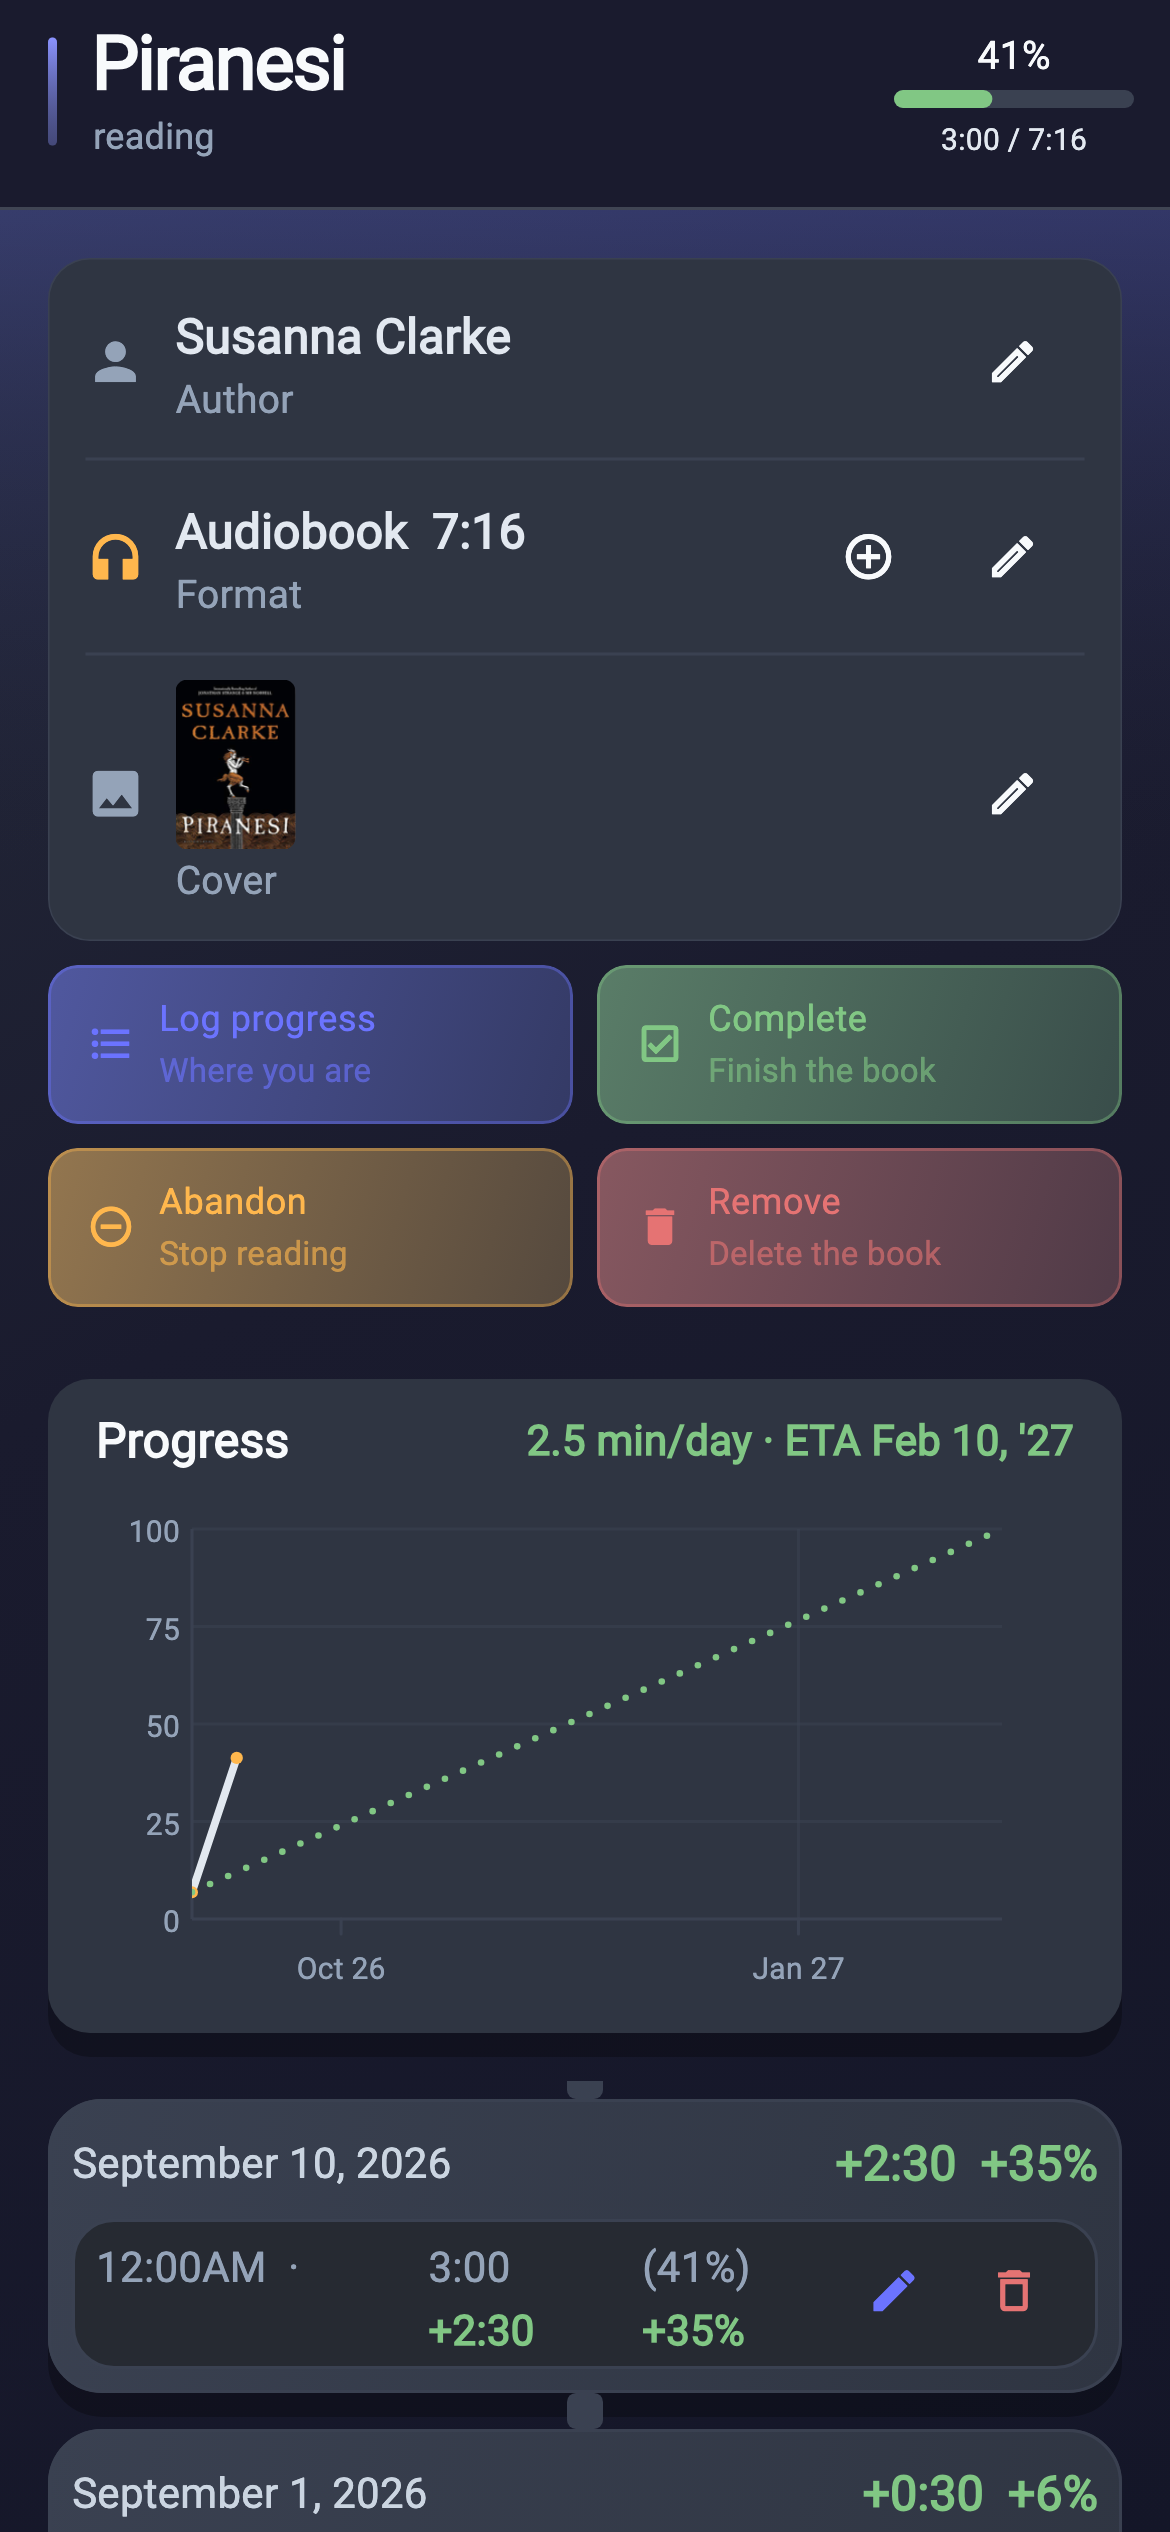
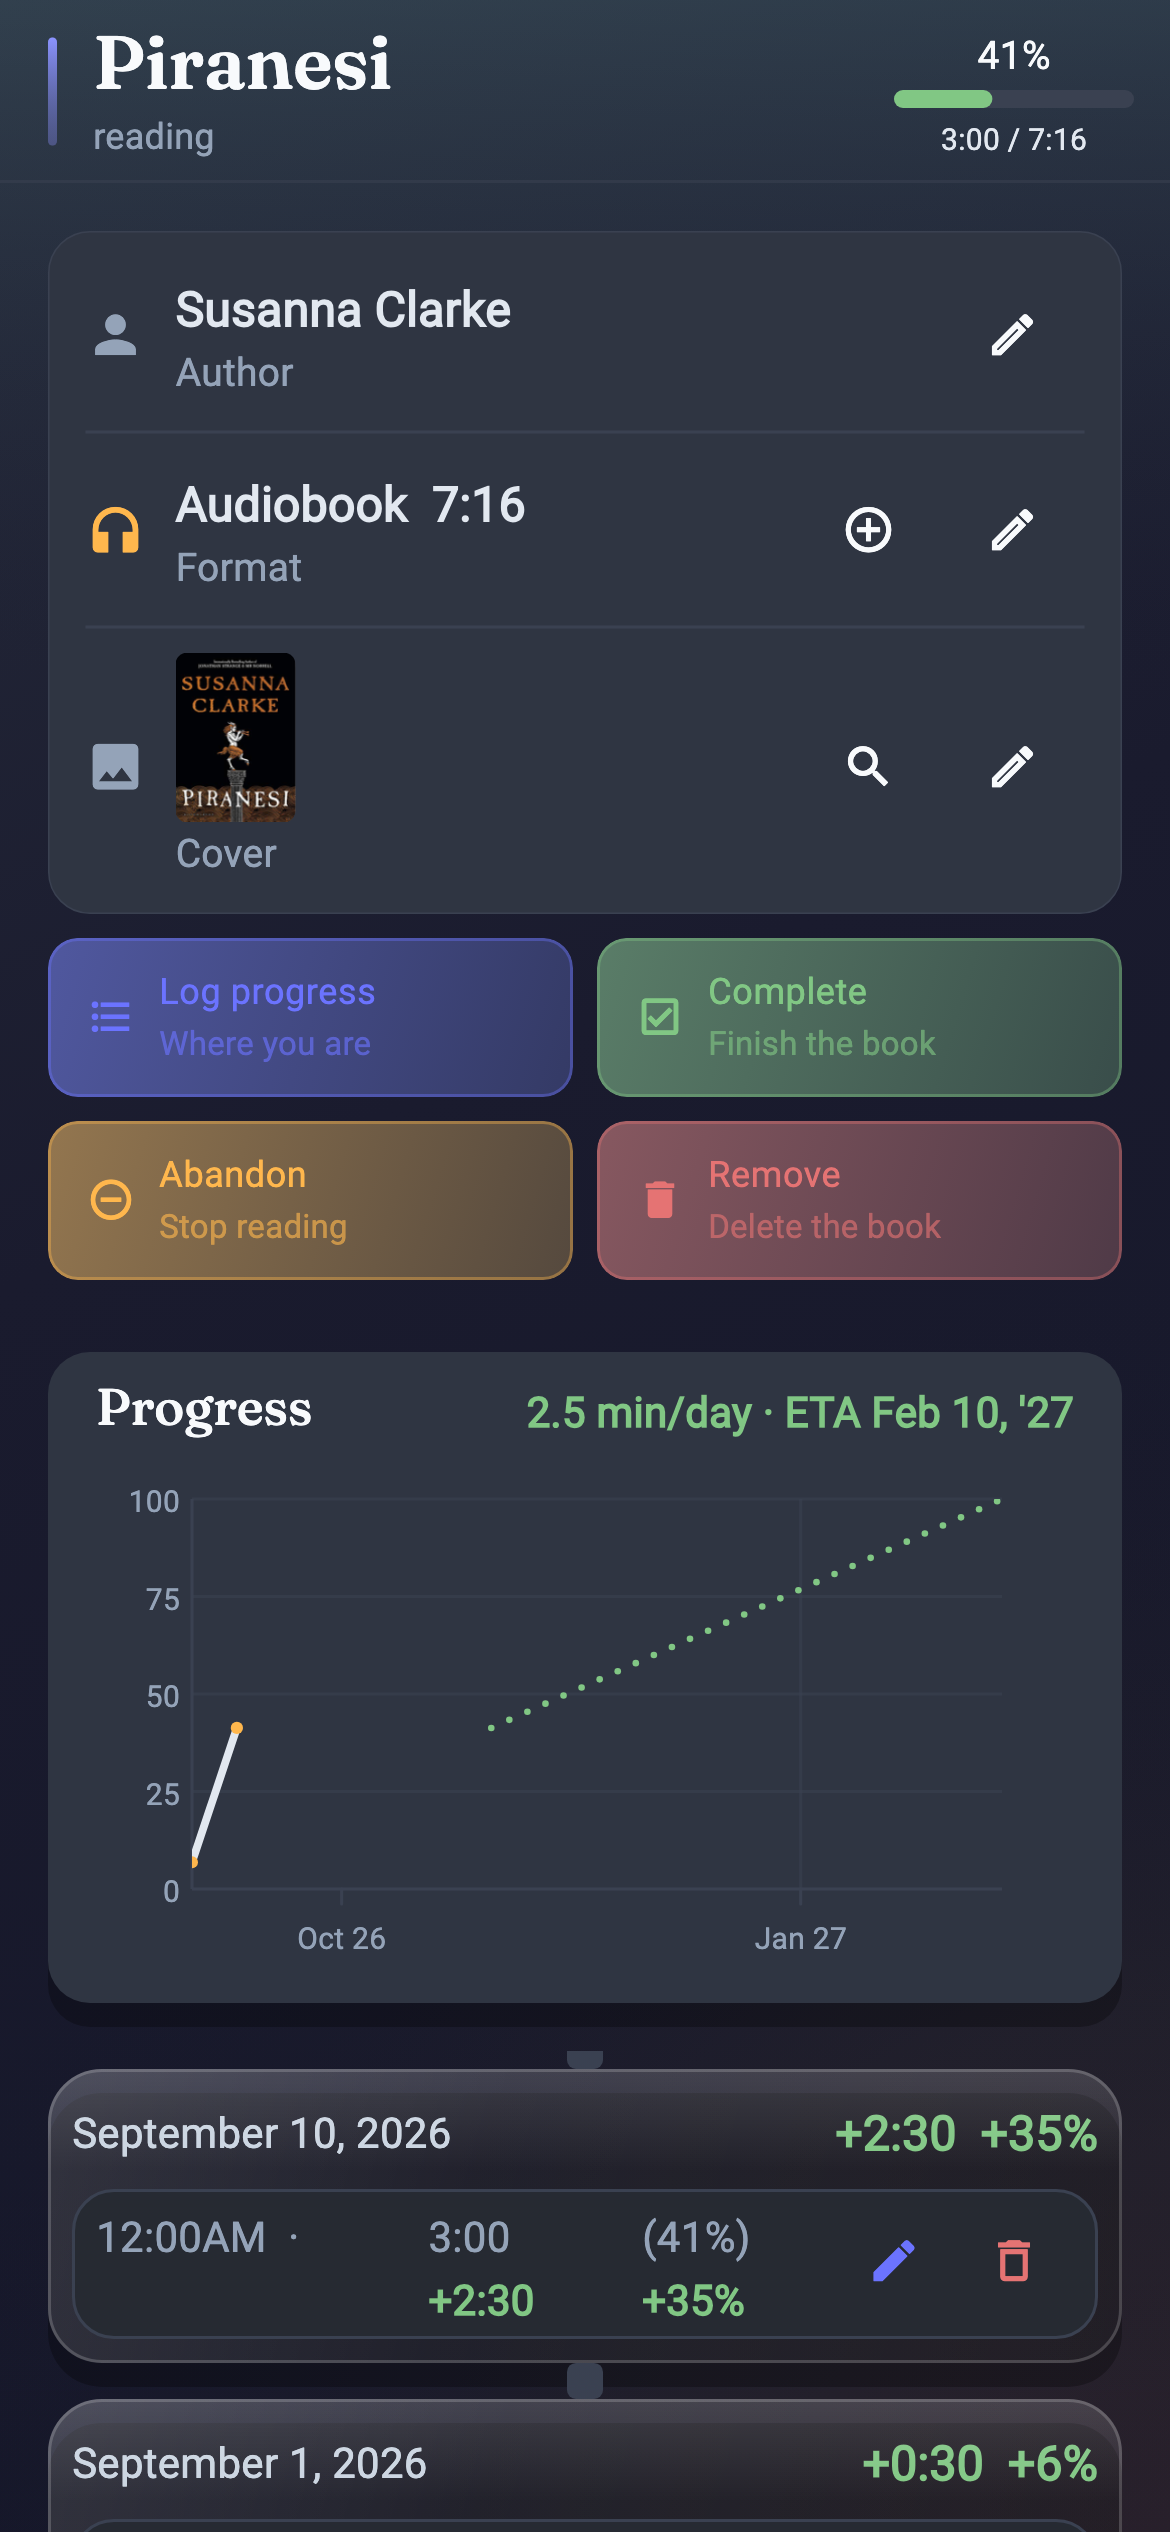
leverage the new EText.sectionTitle

diff --git a/lib/ui/pages/stats/day_progress_entry.dart b/lib/ui/pages/stats/day_progress_entry.dart
@@ -42,11 +42,9 @@ class const DayProgressEntry({
   Widget buildTile(BuildContext context) {
     final status = statusLabel;
     return GestureDetector(
-      onTap: () => Navigator.of(context).push(
-        MaterialPageRoute<void>(
-          builder: (_) => LibraryBookPage(book.id),
-        ),
-      ),
+      onTap: () => Navigator.of(
+        context,
+      ).push(MaterialPageRoute<void>(builder: (_) => LibraryBookPage(book.id))),
       child: Padding(
         padding: const EdgeInsets.only(bottom: 6),
         child: Row(
@@ -67,9 +65,7 @@ class const DayProgressEntry({
                       status,
                       style: TextStyle(
                         fontSize: 11,
-                        color: abandoned
-                            ? EColors.warning
-                            : EColors.accent,
+                        color: abandoned ? EColors.warning : EColors.accent,
                         fontWeight: FontWeight.w500,
                       ),
                     ),

diff --git a/lib/ui/pages/add_a_book/manual_book_form.dart b/lib/ui/pages/add_a_book/manual_book_form.dart
@@ -85,8 +85,8 @@ class _ManualBookFormState() extends ConsumerState<ManualBookForm> {
         ),
         Expanded(
           child: Text(
-            'Add Book Manually',
-            style: AppTextStyles.h1,
+            'Add book manually',
+            style: EText.sectionTitle,
             textAlign: TextAlign.center,
           ),
         ),
@@ -219,7 +219,9 @@ class _ManualBookFormState() extends ConsumerState<ManualBookForm> {
     setState(() => _saving = true);
     try {
       final year = int.tryParse(_yearController.text);
-      final libraryRepository = await ref.read(libraryRepositoryProvider.future);
+      final libraryRepository = await ref.read(
+        libraryRepositoryProvider.future,
+      );
       await libraryRepository.addManualBook(
         title: _titleController.text.trim(),
         author: _authorController.text.trim().nullIfEmpty,

diff --git a/lib/ui/pages/stats/progress_chart_card.dart b/lib/ui/pages/stats/progress_chart_card.dart
@@ -26,11 +26,11 @@ class const ProgressChartCard({
                 bottom: AppSpacing.md,
                 left: AppSpacing.lg,
               ),
-              child: Text('Reading Progress', style: AppTextStyles.h3),
+              child: Text('Reading progress', style: EText.sectionTitle),
             ),
           ),
           _chartAndCaptionPanel(
-            'Rolling Average',
+            'Rolling average',
             RollingAverageChart(books: books, periodCutoff: period.cutoffDate),
           ),
           _chartAndCaptionPanel(
@@ -58,7 +58,7 @@ class const ProgressChartCard({
       ),
       child: Column(
         children: [
-          Text(label, style: AppTextStyles.h5),
+          Text(label, style: EText.cardTitle),
           const SizedBox(height: AppSpacing.xs),
           SizedBox(
             height: 180,

diff --git a/lib/ui/pages/my_library/book_tile.dart b/lib/ui/pages/my_library/book_tile.dart
@@ -38,11 +38,9 @@ class const BookTile(final LibraryBook book) extends ConsumerWidget {
         constraints.maxWidth,
       ),
       leadingGap: AppSpacing.md,
-      onActivated: () => Navigator.of(context).push(
-        MaterialPageRoute<void>(
-          builder: (_) => LibraryBookPage(book.id),
-        ),
-      ),
+      onActivated: () => Navigator.of(
+        context,
+      ).push(MaterialPageRoute<void>(builder: (_) => LibraryBookPage(book.id))),
       leading: _coverArt(),
       child: _copy(),
     );
@@ -118,7 +116,7 @@ class const BookTile(final LibraryBook book) extends ConsumerWidget {
   Widget _title() {
     return Text(
       book.book.title,
-      style: AppTextStyles.h4,
+      style: EText.cardTitle,
       maxLines: 2,
       overflow: TextOverflow.ellipsis,
     );

diff --git a/lib/sync/books_repository.dart b/lib/sync/books_repository.dart
@@ -11,18 +11,14 @@ class BooksRepository(final PowerSyncDatabase _powerSync) {
   static const _uuid = Uuid();
 
   Future<Book> getBookById(String bookId) async {
-    final bookRow = await _powerSync.get(
-      'SELECT * FROM books WHERE id = ?',
-      [bookId],
-    );
+    final bookRow = await _powerSync.get('SELECT * FROM books WHERE id = ?', [
+      bookId,
+    ]);
     return _mapToBook(bookRow);
   }
 
   Future<String> getOrCreateBookId(OpenLibraryBook book) async {
-    return await _existingBookId(
-          title: book.title,
-          author: book.firstAuthor,
-        ) ??
+    return await _existingBookId(title: book.title, author: book.firstAuthor) ??
         await _insertBook(
           title: book.title,
           author: book.firstAuthor,

diff --git a/lib/data_model.dart b/lib/data_model.dart
@@ -1,4 +1,5 @@
 import 'package:clock/clock.dart';
+
 import 'dart:math';
 
 import 'package:ethan_utils/ethan_utils.dart';
@@ -127,10 +128,7 @@ class LibraryBook(
     return days;
   }
 
-  ProgressEventDay _progressEventDay(
-    DateTime day,
-    List<ProgressEvent> events,
-  ) {
+  ProgressEventDay _progressEventDay(DateTime day, List<ProgressEvent> events) {
     return ProgressEventDay(
       day: day,
       events: List.unmodifiable(events),
@@ -138,9 +136,7 @@ class LibraryBook(
     );
   }
 
-  ProgressSincePrevious? _sumProgressSincePrevious(
-    List<ProgressEvent> events,
-  ) {
+  ProgressSincePrevious? _sumProgressSincePrevious(List<ProgressEvent> events) {
     int percent = 0;
     int units = 0;
     bool? isAudiobook;

diff --git a/lib/ui/pages/add_a_book/add_book_modal_body.dart b/lib/ui/pages/add_a_book/add_book_modal_body.dart
@@ -2,6 +2,7 @@ import 'package:ethan_utils/ethan_utils.dart';
 import 'package:book_track/riverpods.dart';
 import 'package:book_track/services/book_universe_service.dart';
 import 'package:book_track/ui/common/design.dart';
+import 'package:ethan_ui/ethan_ui.dart';
 import 'package:material_ui/material_ui.dart';
 import 'package:flutter_riverpod/flutter_riverpod.dart';
 
@@ -59,7 +60,7 @@ class _AddBookModalBodyState() extends ConsumerState<AddBookModalBody> {
   Widget bookSearchTitle() {
     return Padding(
       padding: const EdgeInsets.all(8),
-      child: Text('Book Search', style: AppTextStyles.h1),
+      child: Text('Book search', style: EText.sectionTitle),
     );
   }
 

diff --git a/lib/ui/pages/stats/reading_patterns_card.dart b/lib/ui/pages/stats/reading_patterns_card.dart
@@ -25,10 +25,10 @@ class const ReadingPatternsCard({
           children: [
             Padding(
               padding: const EdgeInsets.only(bottom: AppSpacing.sm),
-              child: Text('Reading Patterns', style: AppTextStyles.h3),
+              child: Text('Reading patterns', style: EText.sectionTitle),
             ),
             const SizedBox(height: AppSpacing.lg),
-            Text('Most Active Days (by progress)', style: AppTextStyles.h5),
+            Text('Most active days (by progress)', style: EText.cardTitle),
             const SizedBox(height: AppSpacing.sm),
             if (data.activityByDayOfWeek.isEmpty)
               _emptyState()

diff --git a/lib/ui/pages/stats/stats_page.dart b/lib/ui/pages/stats/stats_page.dart
@@ -1,4 +1,3 @@
-import 'package:ethan_utils/ethan_utils.dart';
 import 'package:book_track/data_model.dart';
 import 'package:book_track/riverpods.dart';
 import 'package:book_track/ui/common/design.dart';
@@ -125,7 +124,7 @@ class _StatsCardsListState() extends ConsumerState<_StatsCardsList> {
       4 => FormatBreakdownCard(books: _books, periodCutoff: _periodCutoff),
       5 => ReadingPatternsCard(books: _books, periodCutoff: _periodCutoff),
       _ => ChartCard(
-        title: 'Recent Stats',
+        title: 'Recent stats',
         chart: RecentBooksWidget(books: _books, periodCutoff: _periodCutoff),
       ),
     };

diff --git a/lib/ui/pages/my_library/archived_book_row.dart b/lib/ui/pages/my_library/archived_book_row.dart
@@ -12,11 +12,9 @@ class const ArchivedBookRow(final LibraryBook book) extends StatelessWidget {
   @override
   Widget build(BuildContext context) {
     return InkWell(
-      onTap: () => Navigator.of(context).push(
-        MaterialPageRoute<void>(
-          builder: (_) => LibraryBookPage(book.id),
-        ),
-      ),
+      onTap: () => Navigator.of(
+        context,
+      ).push(MaterialPageRoute<void>(builder: (_) => LibraryBookPage(book.id))),
       child: Padding(
         padding: const EdgeInsets.symmetric(vertical: AppSpacing.sm),
         child: Row(

diff --git a/lib/ui/pages/search_result_detail/search_result_detail_page.dart b/lib/ui/pages/search_result_detail/search_result_detail_page.dart
@@ -89,7 +89,9 @@ class _SearchResultDetailPage() extends ConsumerState<SearchResultDetailPage> {
   Future<void> addBookToLibrary(BookFormat bookType, int length) async {
     setState(() => _saving = true);
     try {
-      final libraryRepository = await ref.read(libraryRepositoryProvider.future);
+      final libraryRepository = await ref.read(
+        libraryRepositoryProvider.future,
+      );
       await libraryRepository.addBook(widget.book, bookType, length);
     } catch (error, stack) {
       _log.error('(${error.runtimeType}) $error', error, stack);

diff --git a/lib/services/book_universe_service.dart b/lib/services/book_universe_service.dart
@@ -10,7 +10,7 @@ const _log = ELogger('OpenLibraryBookUniverseRepository');
 enum OpenLibraryCoverSize(final String letter) {
   small('S'),
   medium('M'),
-  large('L');
+  large('L'),
 }
 
 class BookUniverseService() {
@@ -32,8 +32,7 @@ class BookUniverseService() {
   static Future<Uint8List?> coverBytes(
     int? coverId,
     OpenLibraryCoverSize size,
-  ) =>
-      _bookUniverseRepo._coverBytes(coverId, size);
+  ) => _bookUniverseRepo._coverBytes(coverId, size);
 }
 
 /// * Open Library has a simple HTTP search endpoint for books and covers:
